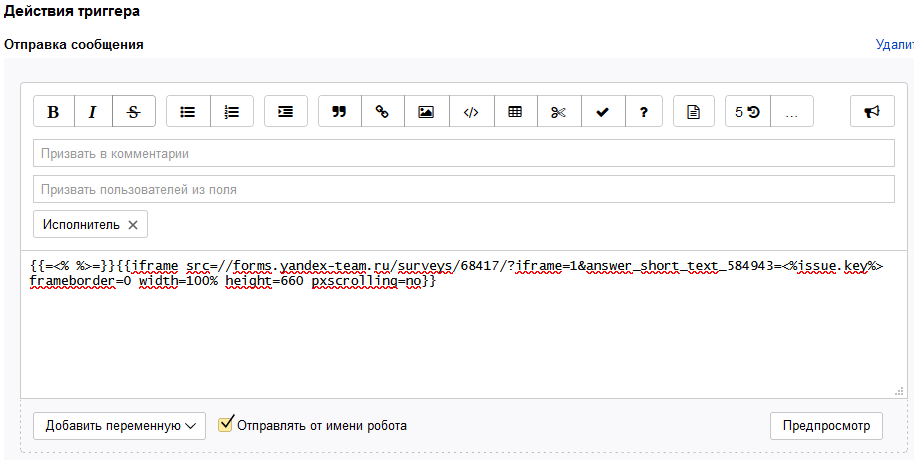
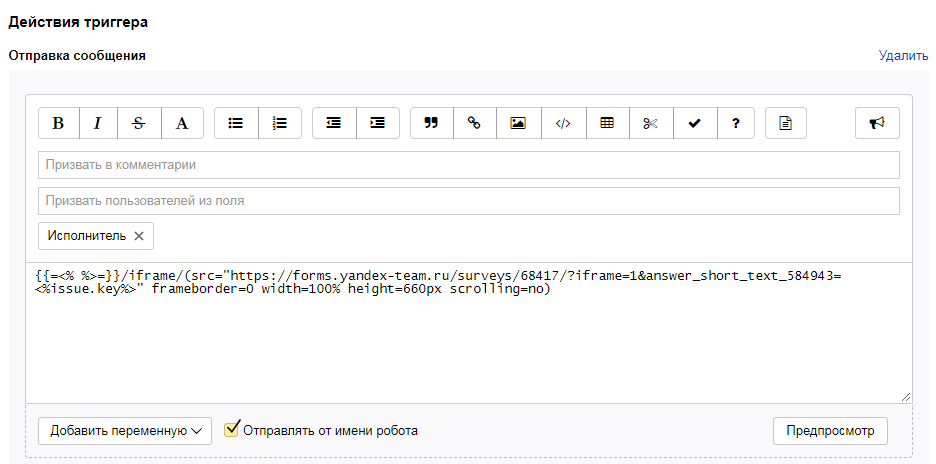
Merge pull request #9271 in CLOUD/docs from DOCSUP-31042.Tracker.error-code-iframe to develop
Squashed commit of the following:

commit ff351d8d16f9b2cc67f2617c615b144226ee0fec
Author: marryana <marryana@yandex-team.ru>
Date:   Wed Jul 20 17:49:21 2022 +0500

    исправление скобок в примере и на скриншоте

diff --git a/ru/tracker/manager/trigger-examples.md b/ru/tracker/manager/trigger-examples.md
@@ -334,13 +334,13 @@
     {% if audience == "internal" %}
 
      ```
-    {{=<% %>=}}/iframe/(src="https://forms.yandex-team.ru/surveys/68417/?iframe=1&answer_short_text_584943=<%issue.key%>" frameborder=0 width=100% height=660px scrolling=no}}
+    {{=<% %>=}}/iframe/(src="https://forms.yandex-team.ru/surveys/68417/?iframe=1&answer_short_text_584943=<%issue.key%>" frameborder=0 width=100% height=660px scrolling=no)
     ```
 
     {% else%}
 
     ```
-    {{=<% %>=}}/iframe/(src="https://forms.yandex.ru/surveys/68417/?iframe=1&answer_short_text_584943=<%issue.key%>" frameborder=0 width=100% height=660px scrolling=no}}
+    {{=<% %>=}}/iframe/(src="https://forms.yandex.ru/surveys/68417/?iframe=1&answer_short_text_584943=<%issue.key%>" frameborder=0 width=100% height=660px scrolling=no)
     ```
    
     {% endif %}
